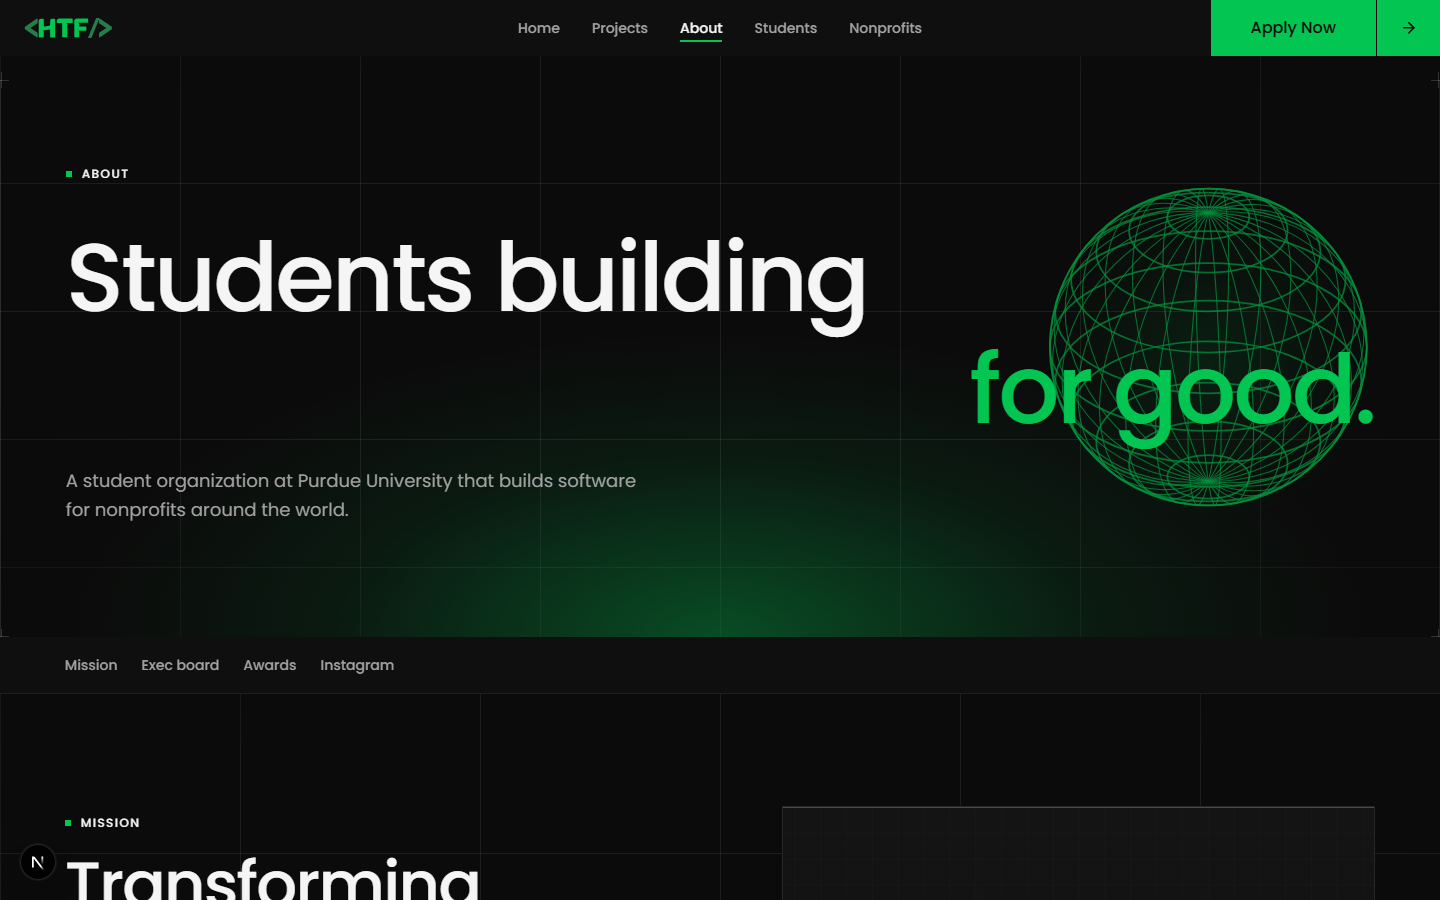
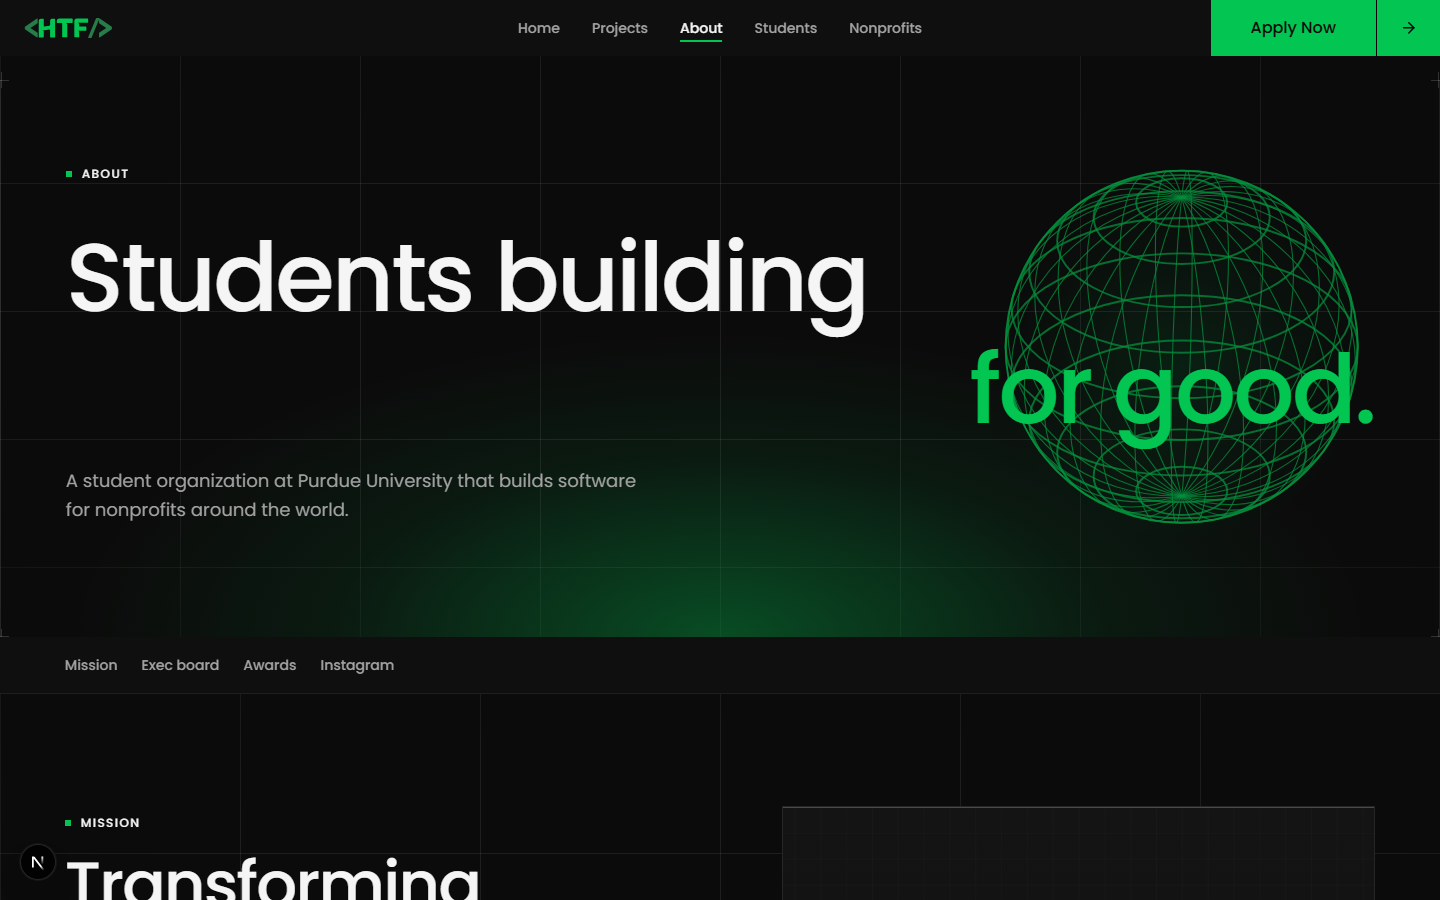
fix(layout): the Globe hero sits on the content column, two thirds tall
The globe was positioned against the viewport and read small. It now hangs off the content
container's right edge (the framed column's rail) at two thirds of the hero's height, with the
headline in front of it; on phones it still bleeds off the screen edge so the copy stays clear.

Claude-Session: https://claude.ai/code/session_01SyVZMwZZKbRSEsu9M6eP3E

Changed region(s): [[0.6875, 0.1867, 0.9688, 0.5911]]

diff --git a/src/components/layout/pageHeroes/GlobeHero.tsx b/src/components/layout/pageHeroes/GlobeHero.tsx
@@ -7,8 +7,8 @@ import {
 import type { PageHeroProps } from "@/components/layout/pageHeroes/types";
 
 /**
- * "Globe": the brand's wireframe globe on the right of the hero, three fifths of its height
- * and behind the headline — the page opens on the world the club works across. It is the same
+ * "Globe": the brand's wireframe globe on the right of the hero, two thirds of its height,
+ * its edge on the content container's right edge and the headline in front of it — the page opens on the world the club works across. It is the same
  * SVG globe as the home hero and the partner map's fallback (home/Globe), so the meridians
  * turn slowly and stand still under prefers-reduced-motion. Decoration only.
  */
@@ -16,11 +16,13 @@ export function GlobeHero(props: PageHeroProps) {
   return (
     <PageHeroSection className="grid-overlay [--grid-cols:8] [--grid-row:8rem]">
       <PageHeroGlow className="h-[70%]" />
-      <div
-        aria-hidden="true"
-        className="pointer-events-none absolute top-1/2 right-[-16%] aspect-square h-[46%] -translate-y-1/2 opacity-70 md:right-[4%] md:h-[60%]"
-      >
-        <Globe className="size-full" />
+      {/* the globe sits on the content container's right edge, not the viewport's */}
+      <div aria-hidden="true" className="pointer-events-none absolute inset-0">
+        <div className="container-max flex h-full items-center justify-end container-x">
+          <div className="-mr-[22%] aspect-square h-1/2 opacity-70 md:mr-0 md:h-2/3">
+            <Globe className="size-full" />
+          </div>
+        </div>
       </div>
       <PageHeroContent {...props} className="z-10" />
     </PageHeroSection>

diff --git a/src/lib/config/options.ts b/src/lib/config/options.ts
@@ -93,7 +93,7 @@ export const PAGE_HERO_VARIANTS = [
     id: "globe",
     name: "Globe",
     blurb:
-      "The wireframe globe, big enough that only its northern cap clears the bottom edge. It turns slowly behind the headline.",
+      "The wireframe globe on the right, two thirds of the hero tall and turning slowly behind the headline.",
   },
   {
     id: "radar",

diff --git a/docs/PROGRESS.md b/docs/PROGRESS.md
@@ -138,8 +138,9 @@ five that keep the shipped hero and change only the graphic in it.
    `h1`, the blurb and the page's actions, revealed on mount in that order) and
    `PageHeroGlow`. A variant is now a section, a graphic and that content block.
 4. **The seven variants.** Frame (the shipped grid, glow and framed column) · Globe (the
-   `home/Globe` wireframe on the right, three fifths of the hero tall, behind the headline,
-   meridians turning) · Radar (rings, a green arm turning every nine seconds, one blip
+   `home/Globe` wireframe on the right, two thirds of the hero tall with its edge on the
+   content container's right edge — it bleeds off the screen edge on phones instead — and the
+   headline in front of it, meridians turning) · Radar (rings, a green arm turning every nine seconds, one blip
    pinging, cropped by the bottom-right corner) · Corridor (the site's frame repeated to a
    vanishing point with spokes, one frame green, another coming forward) · Trace (right-angled
    copper runs and square pads drawing themselves once, faded out toward the headline) ·
